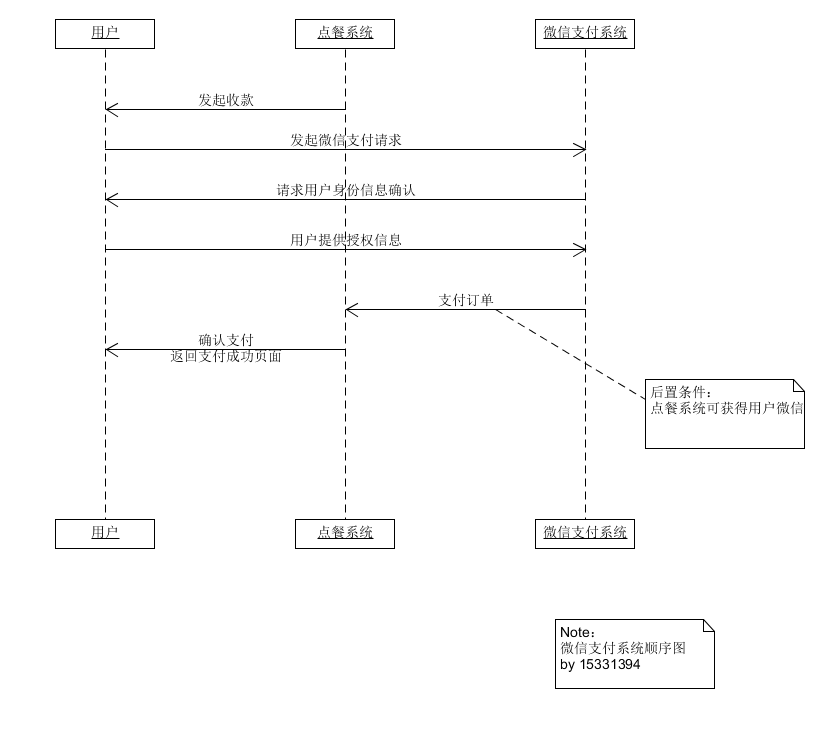
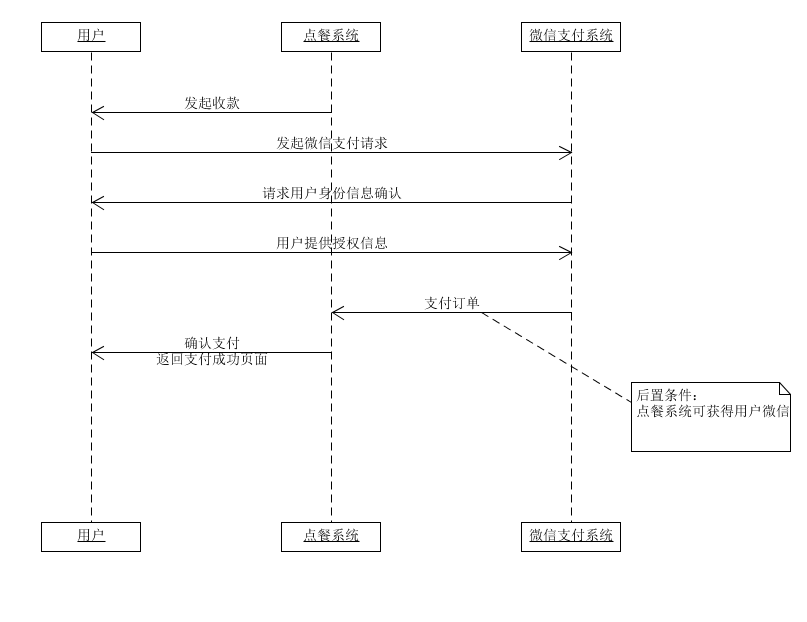
Update ssd

diff --git a/docs/Requirement_specification/System_sequence_diagram.md b/docs/Requirement_specification/System_sequence_diagram.md
@@ -1,3 +1,5 @@
 ## 15331261
 ![ssd_for_order](https://github.com/EasyMealOrder/dashboard/raw/gh-pages/docs/image/ssd1.PNG)
 
+## 15331394
+![ssd_for_wechatPay](https://github.com/EasyMealOrder/dashboard/blob/gh-pages/docs/image/ssd2.png)
